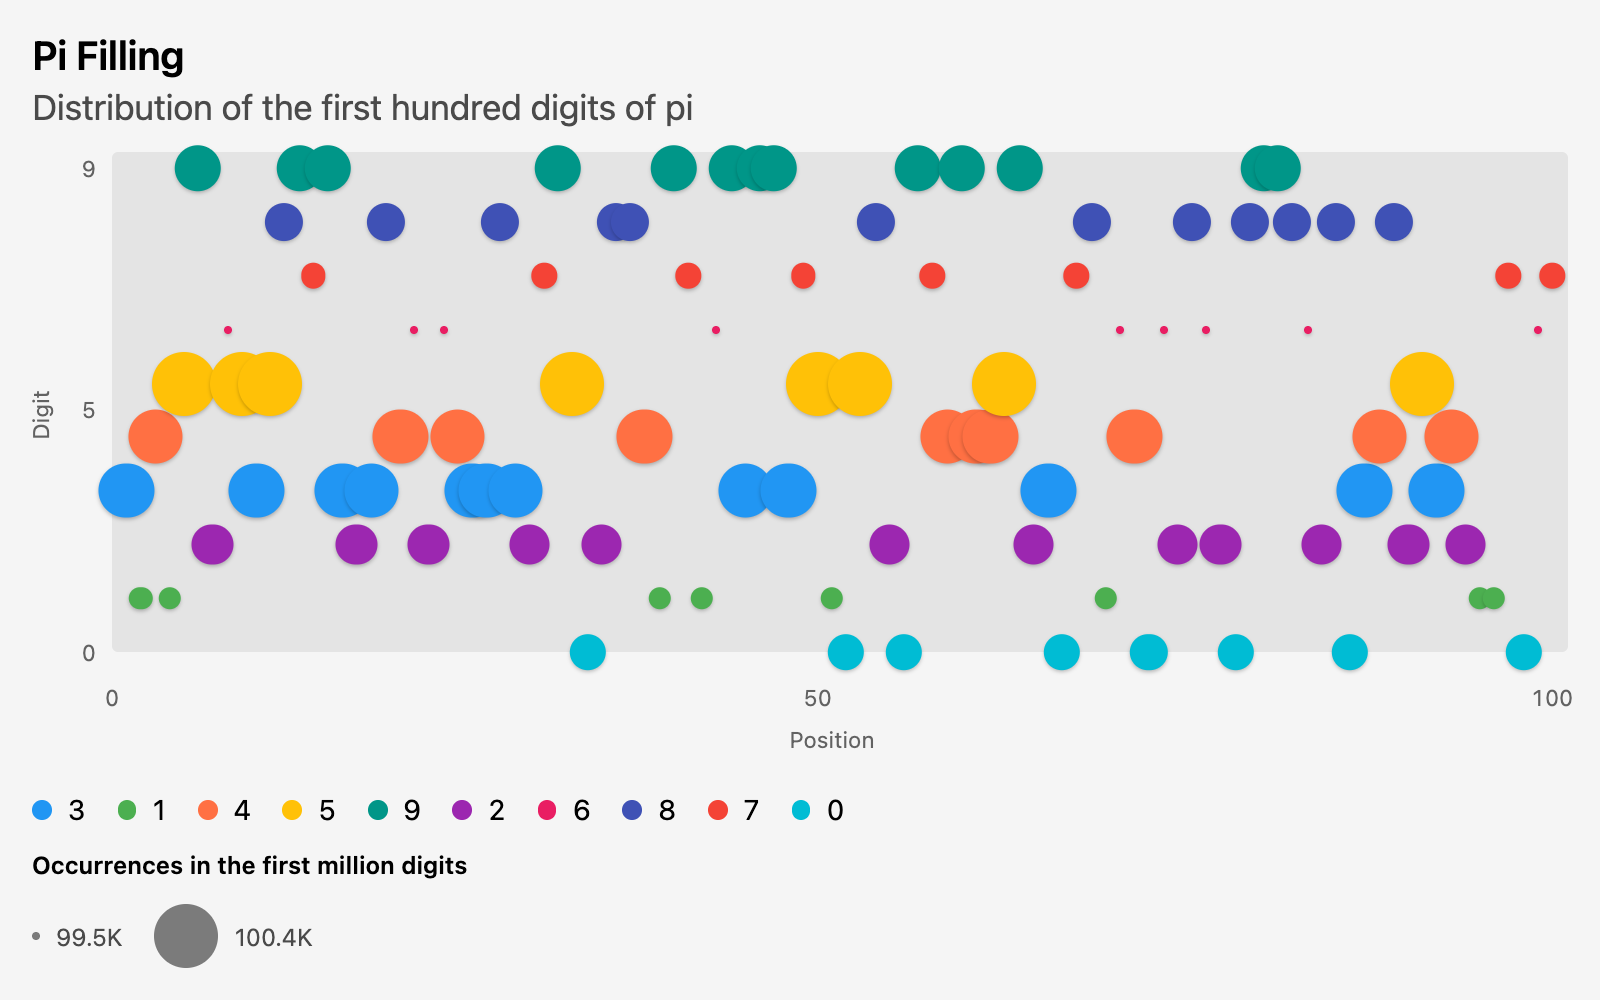
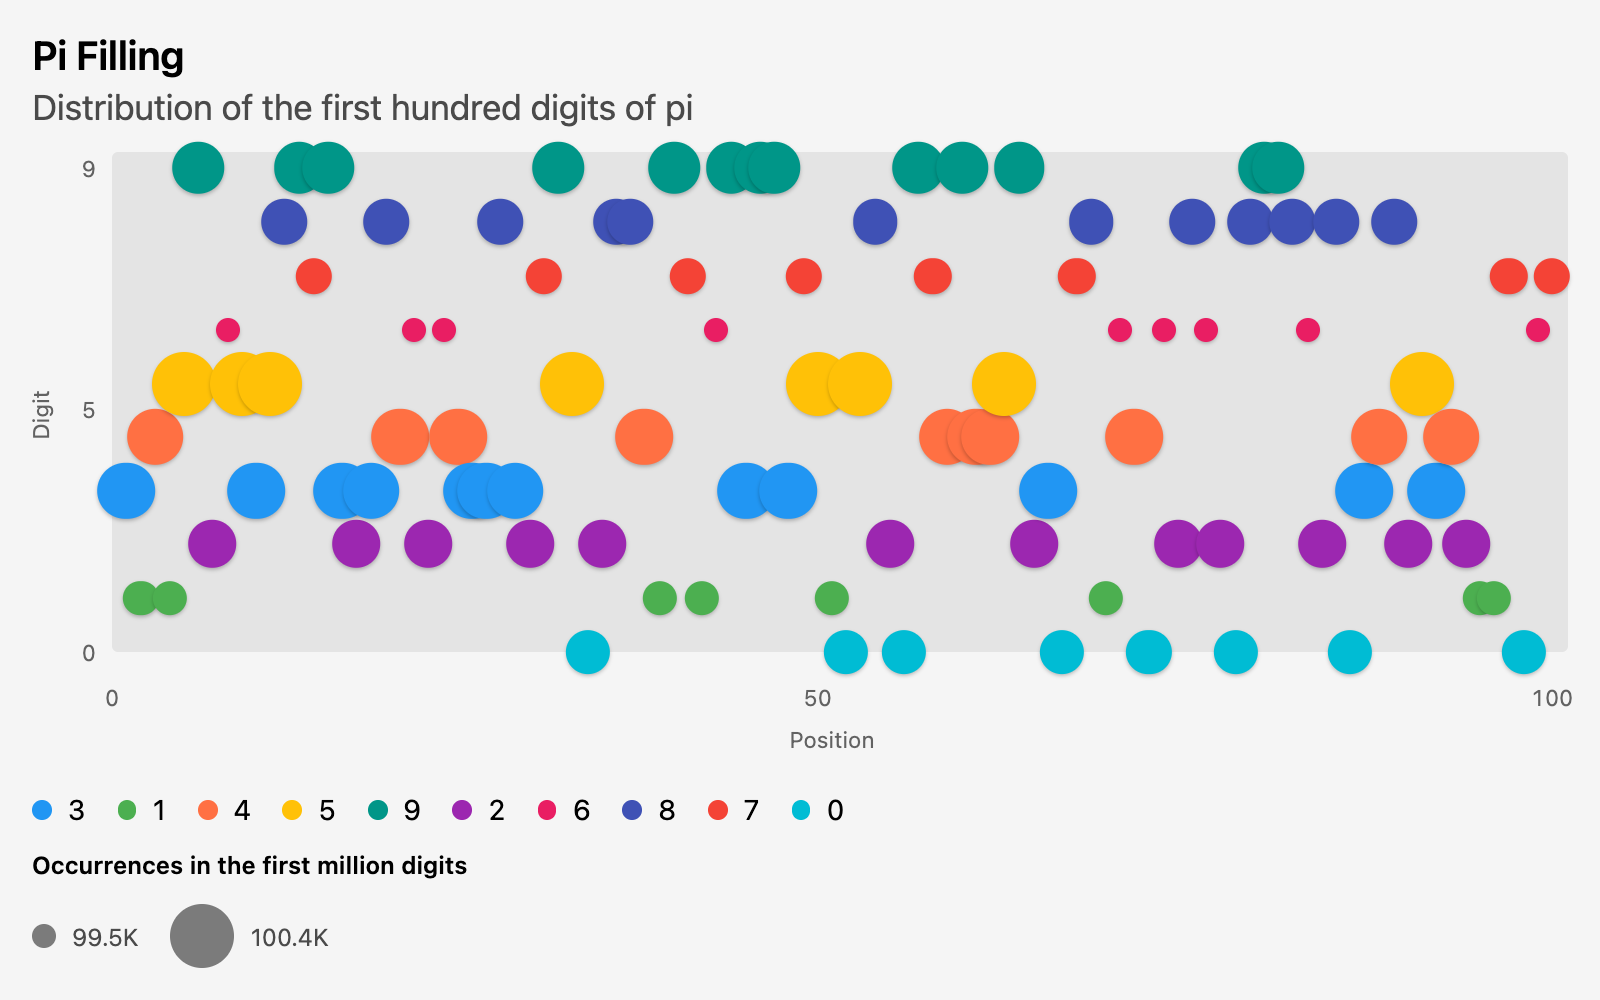
Increase min bubble size

diff --git a/src/css/_charts.css b/src/css/_charts.css
@@ -94,3 +94,7 @@
 .chart-will-happen-histogram {
   .chart-series-will-happen { --color: var(--chart-color-green); }
 }
+
+.chart-pi-100-digits {
+  --chart-bubble-size-min: 0.75rem;
+}
